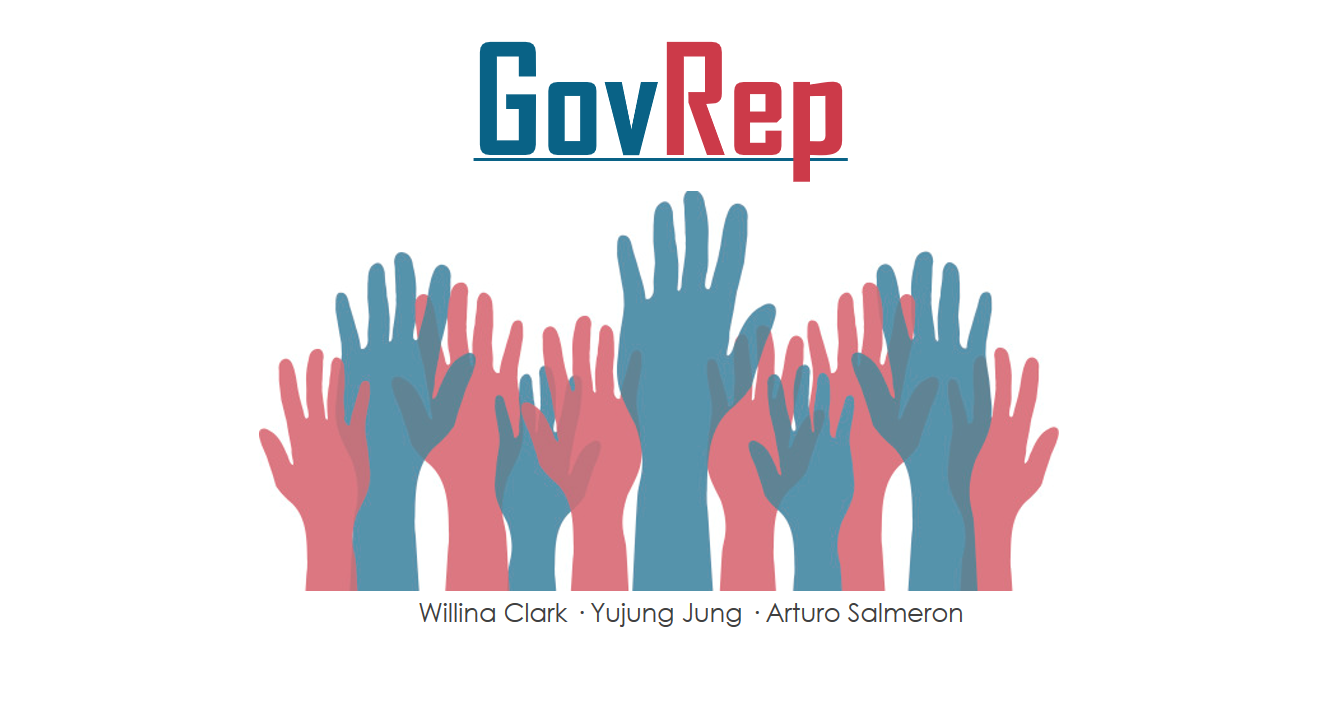
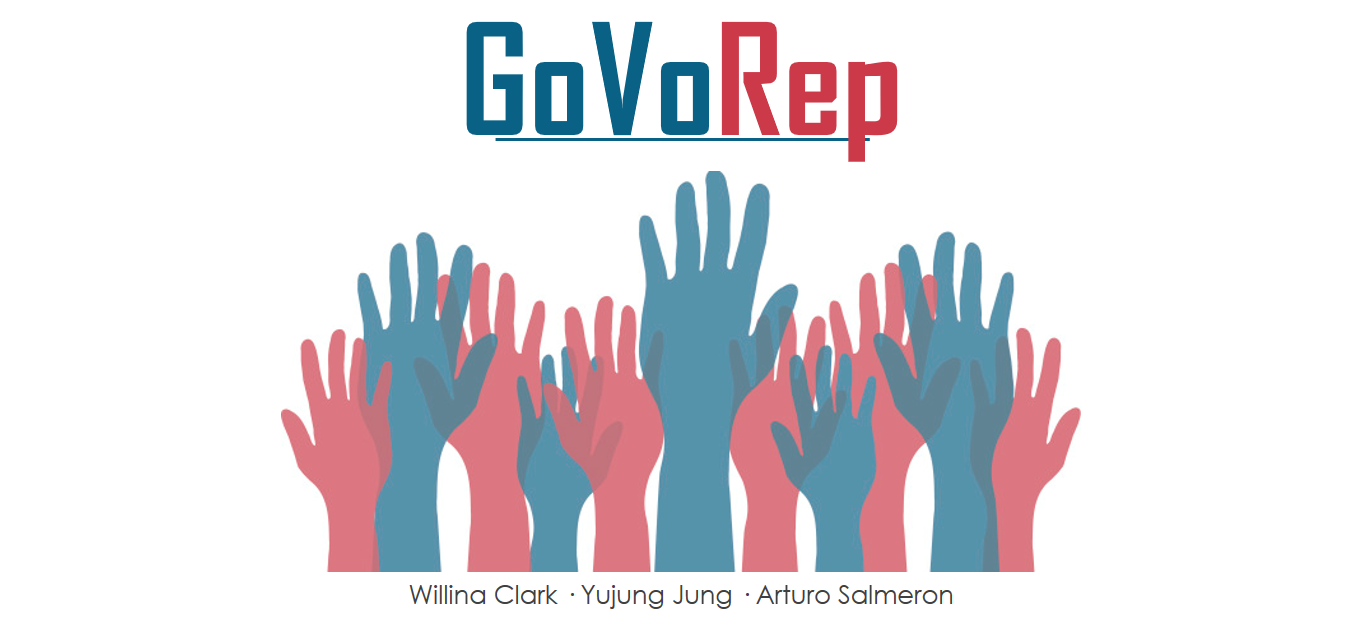
Landing Page, Modal, Buttons

Changed region(s): [[0.1836, 0.2732, 0.7955, 0.9712], [0.3366, 0.0304, 0.6731, 0.2732]]

diff --git a/client/src/components/Header/Header.js b/client/src/components/Header/Header.js
@@ -1,18 +1,27 @@
 import React from "react";
 import './Header.css';
-import {Container, Divider, Dropdown, Grid, Image, List, Menu, Segment} from 'semantic-ui-react';
-import Login from "../../pages/Login";
+import {Container, Divider, Dropdown, Grid, Image, List, Menu, Segment,Icon,Button} from 'semantic-ui-react';
 const Header = () =>
   <div>
   <nav className="navbar navbar-inverse navbar-top">
     <div className="container-fluid">
       <div className="navbar-header">
-        <div className="ui left floated huge header">
-        GoVoRep
+        <div className="ui left floated huge header" style = {{margin: "11px"}}>
+          <a href="/" className="navbar-brand">
+            GoVoRep
+          </a>
         </div>
-        <div className="ui basic button right floated header" >
-        <Login/>
+        <div className="ui right floated header" style = {{margin: "15px"}} >
+        Logout Coming Soon
         </div>
+        <Grid style = {{margin: "auto"}}>
+          <Grid.Row columns={3}>
+            <Grid.Column><Button><a href="/">Home Page</a></Button></Grid.Column>
+            <Grid.Column><Button><a href="/Landing">Landing Page</a></Button></Grid.Column>
+            <Grid.Column><Button><a href="/UserPage">User Page</a></Button></Grid.Column>
+          </Grid.Row>
+        </Grid>
+        
         <div className="ui clearing divider"></div>
       </div>
       

diff --git a/client/src/App.js b/client/src/App.js
@@ -1,35 +1,24 @@
 import React, { Component } from 'react';
-import Header from "./components/Header";
 import { BrowserRouter as Router, Route, Switch } from "react-router-dom";
 import Login from "./pages/Login";
 import UserPage from "./pages/UserPage";
+import LandingPage from "./pages/LandingPage";
 import Home from "./pages/Home";
-// import Map from "./components/Map";
-import Location from "./components/Location";
-import MapGL from 'react-map-gl';
+import { Tab } from 'semantic-ui-react'
 import './App.css';
+
 
 class App extends Component {
   render() {
     return (
       <Router>
         <div className="App">
-        <Header />
         <Switch>
         <Route exact path = "/UserPage" component = {UserPage} />;
-        <Route exact path = "/Home" component = {Home} />;
+        <Route exact path = "/" component = {Home} />;
+        <Route exact path = "/Landing" component = {LandingPage} />;
         </Switch>
-        <Location />
-        <MapGL
-        width={700}
-        height={450}
-        latitude={37.768}
-        longitude={-122.331}
-        zoom={9.017}
-        // mapStyle="mapbox://styles/mapbox/dark-v9" 
-        // mapboxApiAccessToken={Your_Mapbox_Token}
-       />
-        
+
         </div>
       </Router>
     );

diff --git a/client/src/pages/LandingPage/LandingPage.js b/client/src/pages/LandingPage/LandingPage.js
@@ -1,0 +1,44 @@
+import React, { Component } from "react";
+// import Map from "../../components/Map";
+import Location from "../../components/Location";
+import MapGL from 'react-map-gl';
+import {Grid} from 'semantic-ui-react';
+import Header from "../../components/Header";
+
+
+class landingPage extends Component {
+	state: {
+		testLanding: ""
+	};
+
+	render() {
+		return(
+			<div>
+				<Header/>
+				<div style={{background: "lavender"}}>
+					<Grid>
+						<Grid.Row width={16}>
+							<Location/>
+						</Grid.Row>
+
+						<Grid.Row width= {16}>
+							<MapGL
+						        width={700}
+						        height={450}
+						        latitude={37.768}
+						        longitude={-122.331}
+						        zoom={9.017}
+						        // mapStyle="mapbox://styles/mapbox/dark-v9" 
+						        // mapboxApiAccessToken={Your_Mapbox_Token}
+						    />
+						</Grid.Row>
+					</Grid>
+				</div>
+			</div>
+
+
+		)
+	}
+}
+
+export default landingPage;

diff --git a/client/src/components/Home/Home.js b/client/src/components/Home/Home.js
@@ -1,14 +1,22 @@
 //-------------- Imports ----------------------//
 	import React from "react"
 	import "./Home.css"
-	import { Image } from 'semantic-ui-react'
+	import { Image,Button } from 'semantic-ui-react'
 	import imgGVR from "./GoVoRep.png"
+	import Login from "../../pages/Login";
 //--------------------------------------------//
 
 //-------------- UserPageRepCard Div -----------------//
 	var home = props =>
-		<div className = "Home">
-			<Image src={imgGVR} />			
+		<div className = "wrapper">
+			<div className = "imgDiv">
+				<Image src={imgGVR} className="myImage" />
+			</div>
 
+			<div className = "buttonDiv">
+				
+				<Login/>		
+
+			</div>
 		</div>
 	export default home;

diff --git a/client/src/components/Home/Home.css b/client/src/components/Home/Home.css
@@ -1,4 +1,23 @@
-.Home {
-    width:100%;
-    height: 100%;
+
+.wrapper{	
+	margin-top:auto ;
+	margin-bottom: auto;
+	display: block;
+	position: relative;
+	max-height: 100%;
+	height: auto;
+}
+.imgDiv{
+	z-index: -100;
+	margin-top:auto ;
+	margin-bottom: auto;
+	display: block;
+	position: relative;
+	height: auto;
+
+}
+.buttonDiv{
+	z-index: 10;
+	margin-top: -25%;
+
 }

diff --git a/client/src/components/SignUp/SignUp.js b/client/src/components/SignUp/SignUp.js
@@ -7,7 +7,7 @@
 
 //-------------- Sign-up Log-In Div -----------------//
 	var SignUp = props =>
-		<Modal trigger={<Button> Log In / Sign Up </Button>}>
+		<Modal trigger={<Button content = "standard" size= 'massive'> Log In / Sign Up </Button>}>
 		<Modal.Header> Login or Create an Account</Modal.Header>
 		<Modal.Content>
 		<Grid>

diff --git a/routes/index.js b/routes/index.js
@@ -7,7 +7,7 @@ router.use("/api", apiRoutes);
 
 // If no API routes are hit, send the React app
 router.use(function(req, res) {
-  res.sendFile(path.join(__dirname, "../client/public/index.html"));
+  res.redirect(req.session.returnTo ||"/");
   // res.json("Thank you");
 });
 

diff --git a/client/src/pages/Login/Login.js b/client/src/pages/Login/Login.js
@@ -37,7 +37,6 @@ class Login extends Component {
   handleLogin = event => {
     event.preventDefault();
     var info = {
-      name: this.state.name,
       email: this.state.Lemail,
       password : this.state.Lpassword
     };

diff --git a/client/src/pages/LandingPage/index.js b/client/src/pages/LandingPage/index.js
@@ -1,0 +1,1 @@
+export {default} from "./LandingPage.js";
